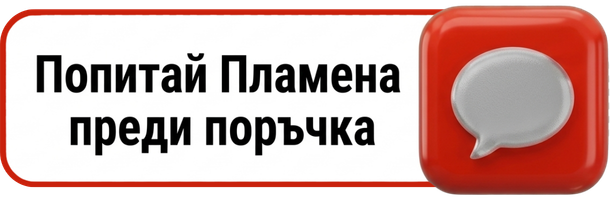
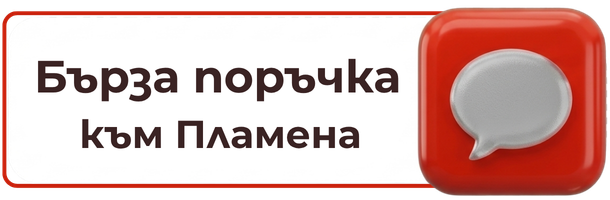
Add in hero section - polzi

diff --git a/src/sections/Hero.tsx b/src/sections/Hero.tsx
@@ -383,39 +383,44 @@ export function Hero() {
             </div>
             {/* BONUS CARD end*/}
           
-          
           </div>
         </div>
 
-        {/* Текстова секция */}
-        <div className="w-full text-center lg:text-left text-white/90 transform-gpu pt-0 -mt-6 lg:pt-0 lg:-mt-24 lg:max-w-[55%]">
-          <div className="max-w-3xl mx-auto lg:mx-0 text-base md:text-base leading-relaxed px-4 lg:px-0">
-            <p className="mb-4">
-              Naturino Kids е изграден на базата на уникалния механизъм{" "}
-              <strong className="text-amber-300">BioHerb™-10.</strong>
-            </p>
-            <p className="mb-4">
-              Тази система е уникална заради изключително редкия Планински лимон{" "}
-              <em>(Chaenomeles maulei)</em> — плод, съдържащ до{" "}
-              <strong className="text-amber-300">5 пъти повече витамин C</strong>{" "}
-              от обикновения лимон и до{" "}
-              <strong className="text-amber-300">10 пъти повече витамин P</strong>{" "}
-              от ябълките. Именно той осигурява{" "}
-              <strong className="text-amber-300">над 98% усвояемост</strong>{" "}
-              на останалите девет билки, подбрани по специална фитотерапевтична таблица
-              и съобразени с детския организъм.
-            </p>
-            <p>
-              Затова Naturino Kids е един от малкото продукти на пазара
-              подходящ за деца от{" "}
-              <strong className="text-amber-300">18 месеца</strong>{" "}
-              — 100% натурален, изследван и регистриран в{" "}
-              <strong className="text-amber-300">Българската агенция по безопасност на храните.</strong>
-            </p>
+              {/* Кратки ползи в Hero */}
+      <div className="w-full transform-gpu pt-0 -mt-6 lg:pt-0 lg:-mt-24 lg:max-w-[55%]">
+        <div className="mx-0 lg:mx-0 rounded-3xl border border-white/15 bg-white/10 backdrop-blur-md shadow-2xl px-5 py-5 md:px-6 md:py-6">
           
-          </div>
-        </div>
+          <p className="text-white font-black text-base md:text-lg mb-4 leading-tight">
+            Какво се забелязва след приема на Naturino Kids?
+          </p>
 
+          <div className="space-y-3">
+            {[
+              'Повишава имунитета и устойчивостта на детето',
+              'Намалява боледуванията при редовен прием',
+              'Подкрепа при хрема, кашлица и сезонно натоварване',
+              'По-бързо възстановяване след боледуване и намаляване на усложненията',
+              'Подкрепя дихателната система и облекчава дразненето в гърлото',
+              '100% натурален билков екстракт, без консерванти, оцветители и захар',
+              'Подходящ за деца над 18 месеца, лесен за прием и приятен на вкус',
+              'Много родители вече споделят, че децата им си връщат апетита след приема на Naturino Kids',
+
+            ].map((item, i) => (
+              <div key={i} className="flex items-center gap-3">
+                <div className="flex-shrink-0 w-6 h-6 rounded-full bg-white/15 border border-white/20 flex items-center justify-center">
+                  <span className="text-white font-black text-sm">✓</span>
+                </div>
+
+                <p className="text-white font-bold text-sm md:text-base leading-tight">
+                  {item}
+                </p>
+              </div>
+            ))}
+          </div>
+
+        </div>
+      </div>
+  
       </div>
     </section>
   );

diff --git a/src/sections/FloatingChat.tsx b/src/sections/FloatingChat.tsx
@@ -61,22 +61,25 @@ useEffect(() => {
         </a>
 
         {/* Viber */}
-        <a 
-          href="viber://chat?number=%2B359896783751"
-          target="_blank"
-          rel="noopener noreferrer"
-          className="flex items-center justify-center hover:scale-110 transition-transform shadow-lg"
-          aria-label="Viber"
-        >
-          {/* Сега иконката е по-голяма на компютър (md:h-20), но запазва формата си */}
-          <img src="images/viber.png" alt="Viber" className="h-12 md:h-16 w-auto block object-contain" />
-        </a>
+      <a 
+        href="viber://chat?number=%2B359896783751"
+        target="_blank"
+        rel="noopener noreferrer"
+        className="flex items-center justify-center hover:scale-110 transition-transform shadow-none bg-transparent"
+        aria-label="Viber"
+      >
+        <img 
+          src="images/viber.png" 
+          alt="Viber" 
+          className="h-12 md:h-16 w-auto block object-contain shadow-none" 
+        />
+      </a>
       </div>
 
       {/* Основно 3D балонче - С комбинирана мазна анимация (Плуване + Поклащане) */}
       <button
         onClick={() => setIsMenuOpen(!isMenuOpen)}
-        className="flex h-16 w-36 md:h-16 md:w-48 items-center justify-center shadow-xl transition-all duration-300 hover:scale-105 active:scale-95"
+        className="flex h-16 w-36 md:h-16 md:w-48 items-center justify-center bg-transparent border-0 p-0 shadow-none transition-all duration-300 hover:scale-105 active:scale-95"
         style={{
           // Създаваме динамична анимация на място (inline)
           animation: !isMenuOpen ? 'combined-float-wiggle 10s ease-in-out infinite' : 'none'